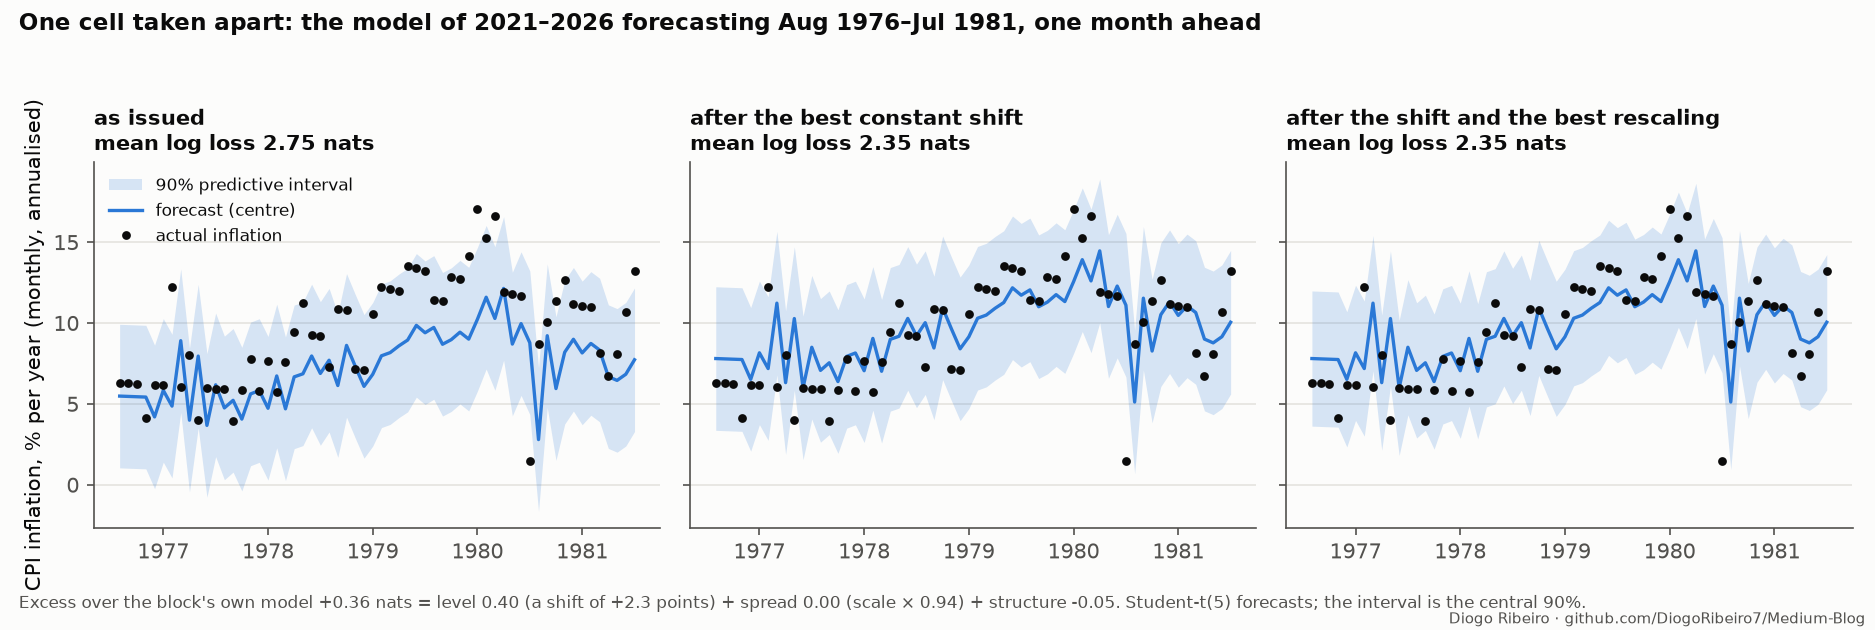
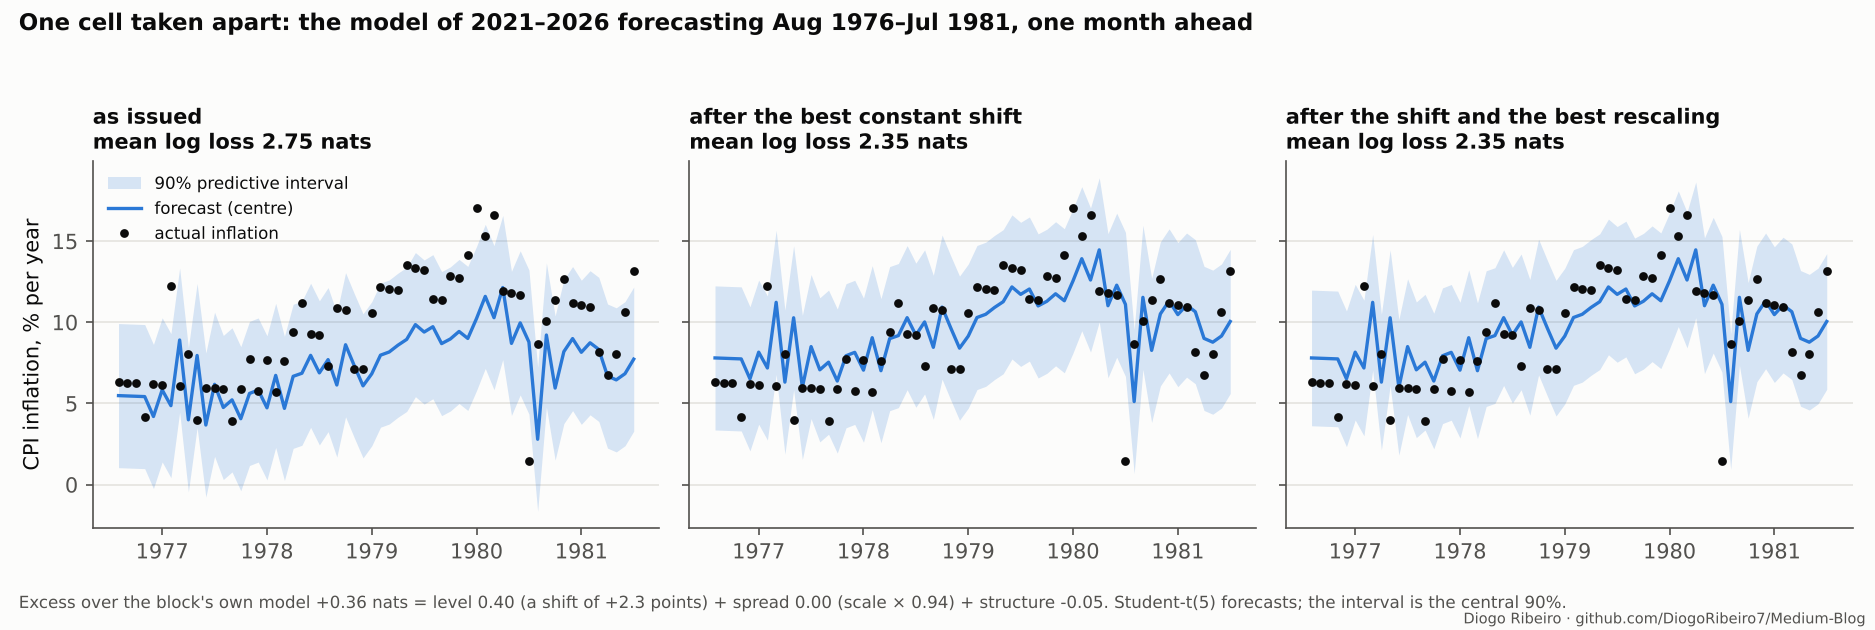
backward-evaluation-guide: README, root README entry, figure 1 label

diff --git a/backward-evaluation-guide/figures.py b/backward-evaluation-guide/figures.py
@@ -132,7 +132,7 @@ def fig1():
         ax.set_xticks(ticks)
         ax.set_xticklabels([f"{dates[c + i]:%Y}" for i in ticks])
         grid(ax)
-    axes[0].set_ylabel("CPI inflation, % per year (monthly, annualised)")
+    axes[0].set_ylabel("CPI inflation, % per year")
     axes[0].legend(frameon=False, fontsize=8, loc="upper left")
     fig.suptitle(f"One cell taken apart: the model of {dates[a]:%Y}–{dates[b - 1]:%Y} forecasting "
                  f"{dates[c]:%b %Y}–{dates[d - 1]:%b %Y}, one month ahead", x=0.01, ha="left", fontweight="bold",

diff --git a/backward-evaluation-guide/README.md b/backward-evaluation-guide/README.md
@@ -1,0 +1,82 @@
+# Reading the backward-evaluation matrix: a diagnostic, not a rule
+
+Companion code for the article *Reading the Backward-Evaluation Matrix to Diagnose How
+Forecasting Models Fail Across Periods*, the last part of the backward-evaluation series.
+
+The earlier folders (`../backward-evaluation`, `../backward-evaluation-pooling`,
+`../backward-evaluation-episode-end`, `../backward-evaluation-generality`,
+`../backward-evaluation-model-choice`) built the train-period × test-period matrix and tested
+rules that act on it automatically, to choose a training window or a model. Those rules lost to
+pooling and to the forward backtest. This folder is about reading the matrix instead, with one
+new tool: every cell's excess log loss is split into
+
+- **level**, what a constant shift of the forecasts, fitted on the scored block, removes;
+- **spread**, what a constant rescaling of the predictive distribution then removes;
+- **structure**, what neither removes: predictable variation the transferred model misses.
+
+## The module
+
+`bwdiag.py` is a single file (NumPy and SciPy only) meant to be copied into other projects.
+
+```python
+from bwdiag import LinearModel, lag_rows, transfer_matrix
+
+X, z, t = lag_rows(series, 3)                     # AR(3) rows; any features in time order work
+M = transfer_matrix(X, z, lambda: LinearModel(df=5), block_len=60, gap=12)
+M.excess, M.level, M.spread, M.structure          # k x k matrices (train block x test block)
+print(M.describe())                               # today's model on every earlier block
+M.regime_costs(6); M.regimes(2)                   # contiguous regimes and how much they explain
+```
+
+- Models: anything with `fit(X, z)` and `predict(X) -> (mean, scale)`, Gaussian or Student-t
+  (a finite `df` attribute). `LinearModel` (least squares or Student-t maximum likelihood) and
+  `RegressorModel` (any scikit-learn style regressor, scale from out-of-fold residuals) are included.
+- Models that are not row-based: `matrix_from_forecasts(z, blocks, forecast, own_losses, ...)`.
+- Production: `monitor(X, z, factory, window, step, gap)` compares today's model with the window
+  before it at regular intervals, using only data available at each date.
+- `repair(z, mean, scale, df)` is the decomposition for any set of forecasts.
+
+## Files
+
+- `bwdiag.py`, `tests/`: the module and its unit tests.
+- `sims.py`: simulated series with one known change (level, spread, dynamics, a one-block episode,
+  none); `results/sims_summary.txt`.
+- `macro.py`: US CPI inflation and industrial production growth (the first study's data), AR(3)
+  with Student-t and Gaussian errors; `results/macro_summary.txt`, `results/macro_cells.csv`.
+- `daily.py`, `aggregate.py`: the 25 electricity series and the 304 + 245 Wikipedia articles of
+  the earlier studies; five models (autoregression, seasonal linear, Holt–Winters, LightGBM and a
+  level-normalised LightGBM); matrices, monitoring and the forward check; `results/daily_*`.
+- `PLAN.md`: the plan for the forward check, committed before the full computation.
+- `figures.py`, `figures/`: the nine figures of the article.
+
+## Run
+
+```bash
+python -m pip install -r requirements.txt
+python -m pytest -q tests
+python sims.py --reps 100 && python macro.py           # about two minutes
+python daily.py --domain elec --workers 4
+for k in $(seq 0 11); do python daily.py --domain dev_web --shard $k --of 12 --workers 4; done
+for k in $(seq 0 9); do python daily.py --domain test_web --shard $k --of 10 --workers 4; done
+python aggregate.py && python figures.py
+```
+
+The daily part takes a few CPU-hours; `.github/workflows/backward-evaluation-guide.yml` runs it as
+23 shards and commits the results.
+
+## Results
+
+- Simulations: the decomposition reads a level shift as level (0.63 of 0.62 nats), a doubling of
+  the shock scale as spread (0.31 of 0.30), a change in persistence as structure plus spread
+  (0.24 + 0.19 of 0.45) and a one-block episode as spread plus level; cells within a regime are
+  at the noise floor (about 0.01 per repair).
+- CPI inflation splits into two regimes at August 1981; today's model fails on 1976–81 by level.
+  Industrial production splits at 2016 under Gaussian errors (the 2020 shock) and at 1986 under
+  Student-t errors (the Great Moderation).
+- Daily data, today's model on earlier years (245 test articles): Holt–Winters 0.06, AR 0.37,
+  seasonal linear 1.14 (0.97 level), LightGBM 1.78 (1.30 level) nats/day; level-normalised
+  LightGBM 0.14.
+- Forward check (PLAN.md, T1): the level-normalised LightGBM beats LightGBM by 0.108 nats/day
+  (se 0.008), on 239 of 245 test articles and in 7 of 7 lists (supported); 282 of 304 development
+  articles; 25 of 25 electricity series. It still loses to the seasonal linear model (by 0.043).
+- Monitoring shows the 2025 fall in Wikipedia traffic as a level change with flat structure.

diff --git a/README.md b/README.md
@@ -75,6 +75,8 @@ Chronos-2, TimesFM 2.5 and TiRex against seasonal naive and ETS baselines on hou
 
 [`backward-evaluation-model-choice/`](backward-evaluation-model-choice/) — a pre-registered test of backward evaluation as a way to choose which forecasting model to deploy, against the usual forward backtest: every 91 days, four candidates (autoregression, seasonal linear model, Holt–Winters, LightGBM) are scored on the recent past or fitted on the recent year and scored on older data, and the best is deployed. Test set of 245 Wikipedia articles from seven lists fixed before the data were downloaded; development set of 25 electricity-load series and 304 articles. Verdict: the backward choice is worse than the forward one in all seven lists; pooling the candidates beats both.
 
+[`backward-evaluation-guide/`](backward-evaluation-guide/) — the last part of the backward-evaluation series: `bwdiag.py`, a single-file module that computes the train-period × test-period matrix of any forecasting model and splits every cell into level (removed by a constant shift), spread (removed by a rescaling) and structure (what neither removes), with regime splits and real-time monitoring. Worked readings on simulated changes, US inflation and industrial production, electricity load and 549 Wikipedia articles, and one forward check fixed in advance: a level-normalised LightGBM, suggested by the matrix, beats LightGBM on 239 of 245 test articles.
+
 ### Statistical evidence and decision value
 
 [statistical-evidence-and-decisions/](statistical-evidence-and-decisions/) —
